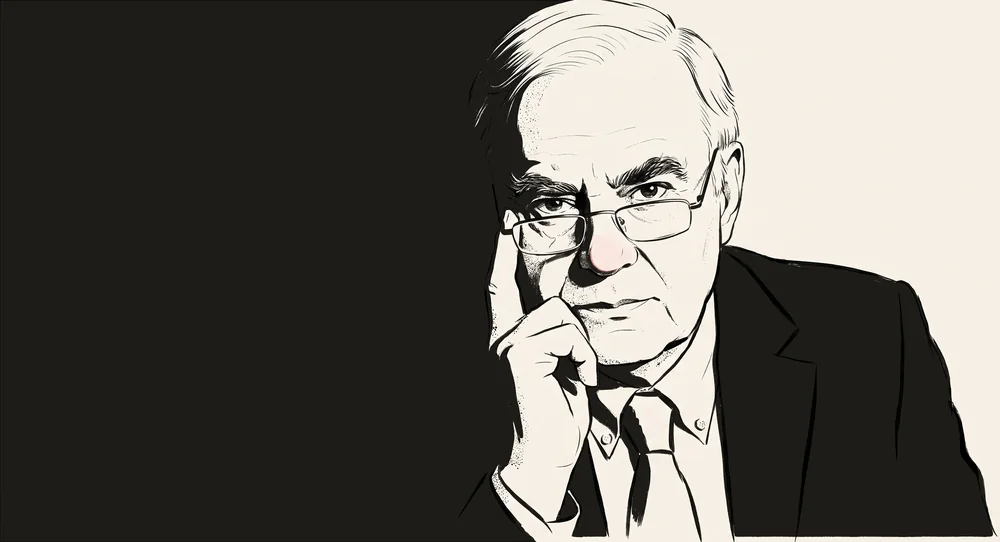
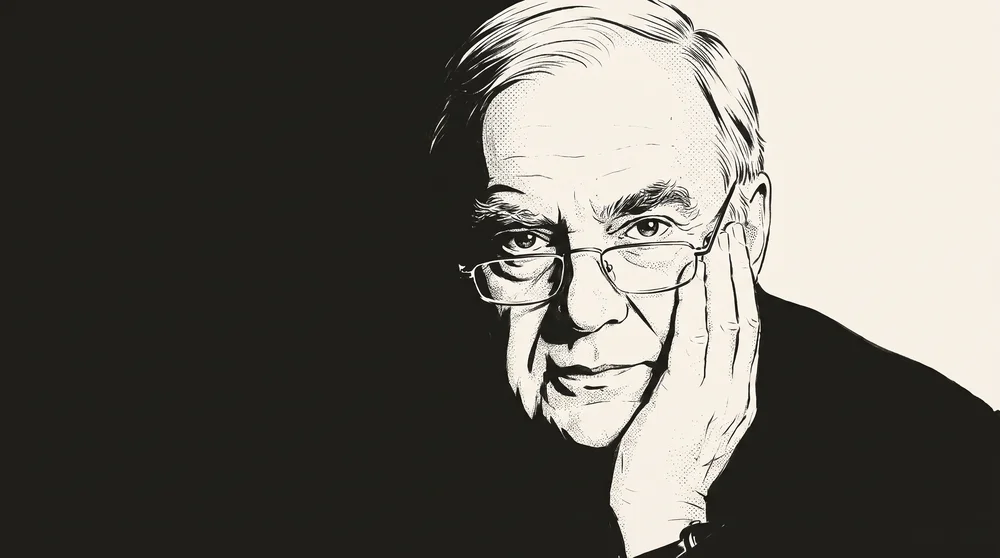
Ana sayfa: yeni yakın çekim portre çizimi (Kemal onayladı)
Claude-Session: https://claude.ai/code/session_01KAY47ioaXdzetkLfy6xSbu

diff --git a/app/page.tsx b/app/page.tsx
@@ -71,7 +71,7 @@ export default function HomePage() {
               sizes="(min-width: 1440px) 1360px, 100vw"
               alt="Halil Berktay'ın mürekkep çizimi portresi"
               width={2000}
-              height={1085}
+              height={1116}
               fetchPriority="high"
               className="block w-full h-[19rem] sm:h-[26rem] lg:h-auto object-cover object-right"
             />
